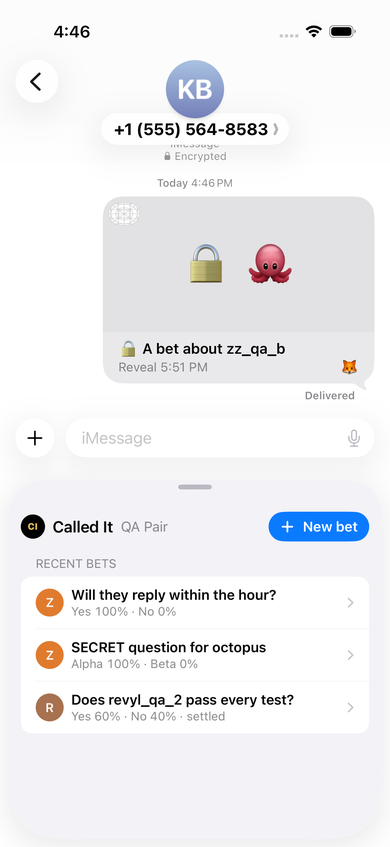
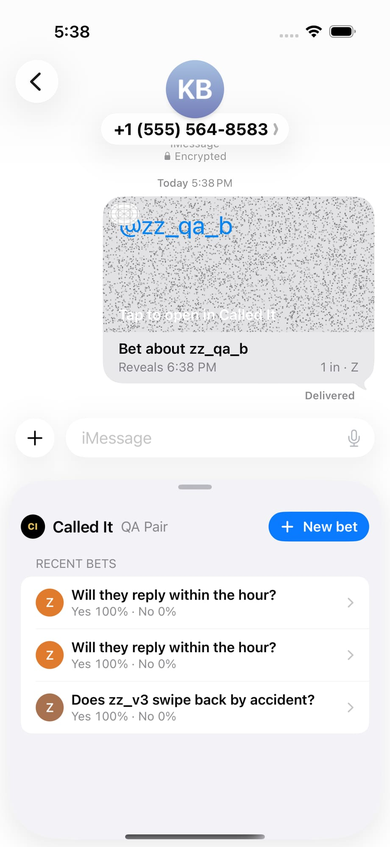
README: current native flow (link this chat, ink card, balance slider) and phone status

diff --git a/convex/_generated/api.d.ts b/convex/_generated/api.d.ts
@@ -19,6 +19,7 @@ import type * as hosting from "../hosting.js";
 import type * as http from "../http.js";
 import type * as lib from "../lib.js";
 import type * as market from "../market.js";
+import type * as merge from "../merge.js";
 import type * as reveal from "../reveal.js";
 import type * as users from "../users.js";
 
@@ -40,6 +41,7 @@ declare const fullApi: ApiFromModules<{
   http: typeof http;
   lib: typeof lib;
   market: typeof market;
+  merge: typeof merge;
   reveal: typeof reveal;
   users: typeof users;
 }>;

diff --git a/README.md b/README.md
@@ -29,13 +29,20 @@ All taken at 390 by 844 on the live site, in a test group with test users (names
 
 ## Native iMessage app
 
-`native-imessage/` is a real Messages extension (SwiftUI in an `MSMessagesAppViewController`, built with XcodeGen) that talks to the same Convex backend. You pair it once with a one-time code from the web app's group details ("Pair iMessage app"). The token lives only in the device Keychain. You then link the conversation to your group.
+`native-imessage/` is a real Messages extension (SwiftUI in an `MSMessagesAppViewController`, built with XcodeGen) that talks to the same Convex backend.
 
-- A friend writes a bet in the extension and inserts a neutral card into the conversation. The card shows who it's about, the reveal time and who's in, never the question. The friend taps Send, so nothing sends automatically.
-- Tapping the card opens a private view. Friends see the question and take a side. The person it's about sees invisible ink, a countdown, and who bet with the sides hidden. The server never sends them the question before the reveal.
-- After the reveal they rub the ink, see everyone's positions, call what happened, and can send a result card. The board shows standings and streaks and can send a top-3 card.
+- **Pair once.** The web app's group details show a one-time account pairing code ("Pair iMessage app"). It proves who you are, and the token lives only in the device Keychain.
+- **Link this chat.** Pick one of your Called It groups, or join one with a group invite code. The invite code is separate from the pairing code. If a new group is made for the chat, the extension explains that it's the chat's private scoreboard.
+- **Send a bet.** A friend writes a bet and inserts a card, then taps Send; nothing sends automatically. The card is an invisible-ink panel showing only the blue @name of the person it's about, "Bet about <name>", the reveal time, and the bettors' initials. The question and options are never on the card or in its URL, which holds only opaque ids.
+- **Open the bet.** Tapping the card opens the private bet view. Friends see the question and stake with a slider capped at their real balance in that group. The person it's about sees ink, a countdown, and who bet with sides hidden. The server never sends them the question before the reveal.
+- **Reveal.** Afterwards they rub the ink, see positions, and call it or veto. A result card and a top-3 leaderboard card can be sent.
 
-What has been verified: every flow above ran live against the backend in the iOS Simulator's Messages app, with two test accounts on two Simulators. The extension is installed on a physical iPhone and appears in the real Messages app drawer. Pairing on that phone and real message delivery between phones are the next things to check. Build and install steps are in [native-imessage/README.md](native-imessage/README.md).
+What has been verified:
+- **Simulator:** every flow above ran live against the backend in the iOS Simulator's Messages app, with two test accounts.
+- **Phones:** the extension is installed on two physical iPhones (Mikun's and Febe's) and opens from the Messages app drawer.
+- **Not yet confirmed:** delivery of a card between the two phones, and the subject-versus-friend view on real devices.
+
+Build and install steps are in [native-imessage/README.md](native-imessage/README.md).
 
 | Card sent in Messages | Friend takes a side | Sealed, about you | Call it after the reveal |
 | --- | --- | --- | --- |
